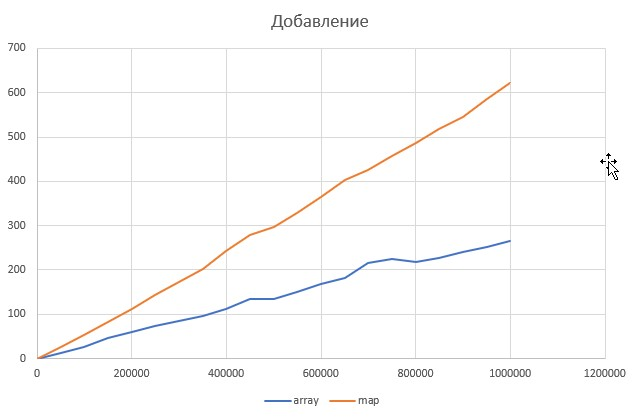
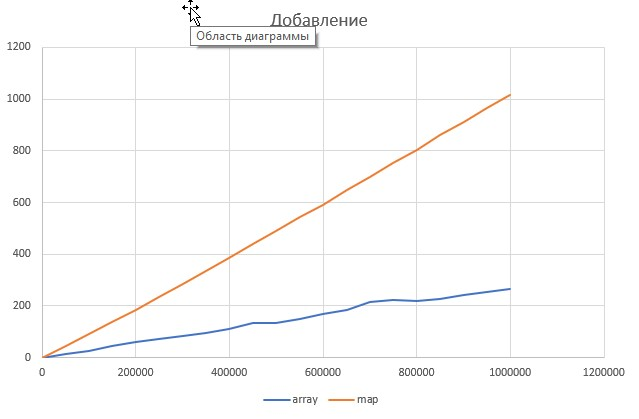
Fixed task and Node

diff --git a/LibraryCPPTemplate/associative_array.h b/LibraryCPPTemplate/associative_array.h
@@ -6,14 +6,36 @@
 template <typename Data>
 class AssociativeArray {
     class Node {
-    public:
         std::string key;
         Node* parent = nullptr;
         Node* right = nullptr;
         Node* left = nullptr;
+
+        std::less<std::string> comp;
+    public:
         Data data;
 
-        Node(std::string key, Data data): key(key), data(data) {}
+        Node(std::string key, Data data, Node* parent): key(key), data(data), parent(parent) {}
+
+        bool isLess(std::string than) {
+            return comp(key, than);
+        }
+
+        bool isMore(std::string than) {
+            return comp(than, key);
+        }
+
+        std::string getKey() {
+            return key;
+        }
+
+        Node* getLeft() {
+            return left;
+        }
+
+        Node* getRight() {
+            return right;
+        }
 
         void setChild() {
             if (right) {
@@ -67,6 +89,41 @@ class AssociativeArray {
             }
         }
 
+        void insert(Node* node) {
+            if (isLess(node->key)) {
+                right = node;
+            } else {
+                left = node;
+            }
+        }
+
+        Node* getMinimum() {
+            Node* res = this;
+            while (res->left) res = res->left;
+            return res;
+        }
+
+        void replace(Node* newN) {
+            if (parent) {
+                if (parent->left == this) parent->left = newN;
+                else parent->right = newN;
+            }
+            if (newN) newN->parent = parent;
+        }
+
+        Node* replace() {
+            Node* newRight = right->getMinimum();
+            if (newRight->parent != this) {
+                newRight->replace(newRight->right);
+                newRight->right = right;
+                newRight->right->parent = newRight;
+            }
+            replace(newRight);
+            newRight->left = left;
+            newRight->left->parent = newRight;
+            return newRight;
+        }
+
     };
 
 public:
@@ -75,11 +132,11 @@ public:
         while (!queue.empty()) {
             Node* node = queue.front();
             queue.pop();
-            if(node->left) {
-                queue.push(node->left);
+            if(node->getLeft()) {
+                queue.push(node->getLeft());
             }
-            if(node->right) {
-                queue.push(node->right);
+            if(node->getRight()) {
+                queue.push(node->getRight());
             }
             delete node;
         }
@@ -88,10 +145,10 @@ public:
     Node* findNode(std::string key) {
         Node* node = root;
         while (node) {
-            if (comp(node->key, key)) {
-                node = node->right;
-            } else if (comp(key, node->key)) {
-                node = node->left;
+            if (node->isLess(key)) {
+                node = node->getRight();
+            } else if (node->isMore(key)) {
+                node = node->getLeft();
             } else {
                 return node;
             }
@@ -104,20 +161,15 @@ public:
         Node* parent = nullptr;
         while (newNode) {
             parent = newNode;
-            if (comp(newNode->key, key)) {
-                newNode = newNode->right;
+            if (newNode->isLess(key)) {
+                newNode = newNode->getRight();
             } else {
-                newNode = newNode->left;
+                newNode = newNode->getLeft();
             }
         }
-        newNode = new Node(key, data);
-        newNode->parent = parent;
+        newNode = new Node(key, data, parent);
         if (parent) {
-            if (comp(parent->key, key)) {
-                parent->right = newNode;
-            } else {
-                parent->left = newNode;
-            }
+            parent->insert(newNode);
         }
 
         newNode->splay();
@@ -132,40 +184,18 @@ public:
         }
         node->splay();
 
-        if (!node->left) {
-            replace(node, node->right);
-        } else if (!node->right) {
-            replace(node, node->left);
-        } else if (node->left && node->right) {
-            Node* right = minimum(node->right);
-            if (right->parent != node) {
-                replace(right, right->right);
-                right->right = node->right;
-                right->right->parent = right;
-            }
-            replace(node, right);
-            right->left = node->left;
-            right->left->parent = right;
+        if (!node->getLeft()) {
+            node->replace(node->getRight());
+        } else if (!node->getRight()) {
+            node->replace(node->getLeft());
+        } else if (node->getLeft() && node->getRight()) {
+            root = node->replace();
         } else {
             root == nullptr;
         }
 
         delete node;
         amountNodes--;
-    }
-
-private:
-    std::less<std::string> comp;
-
-    void replace(Node* oldN, Node* newN) {
-        if (!oldN->parent) root = newN;
-        else if (oldN == oldN->parent->left) oldN->parent->left = newN;
-        else oldN->parent->right = newN;
-        if (newN) newN->parent = oldN->parent;
-    }
-    Node* minimum(Node* node) {
-        while (node->left) node = node->left;
-        return node;
     }
 
 protected:

diff --git a/Tasks/Task5/task5.cpp b/Tasks/Task5/task5.cpp
@@ -5,7 +5,7 @@
 #include <chrono>
 #include "associative_array.h"
 
-typedef int Key;
+typedef std::string Key;
 typedef int Value;
 typedef std::milli Ratio;
 typedef AssociativeArray<Value> Array;
@@ -115,7 +115,7 @@ void testInsertAssociativeArrayVSMap(int length, Table* table) {
     std::map<Key, Value> map;
     start = std::chrono::system_clock::now();
     for (int i = 0; i < length; ++i) {
-        map[i] = i;
+        map[std::to_string(i)] = i;
     }
     end = std::chrono::system_clock::now();
 
@@ -140,7 +140,7 @@ void testInsertAssociativeArrayVSMap(int length, Table* table) {
 
     start = std::chrono::system_clock::now();
     for (const auto &item : numbers) {
-        if (map.find(item) == map.end()) {
+        if (map.find(std::to_string(item)) == map.end()) {
             std::cout << "The map search ERROR." << "\n";
         }
     }
